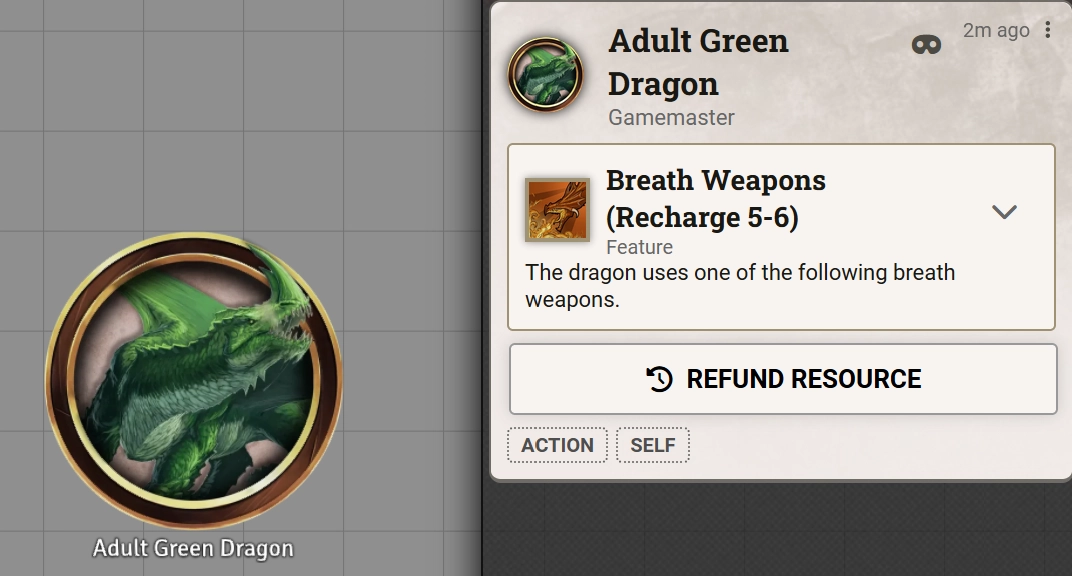
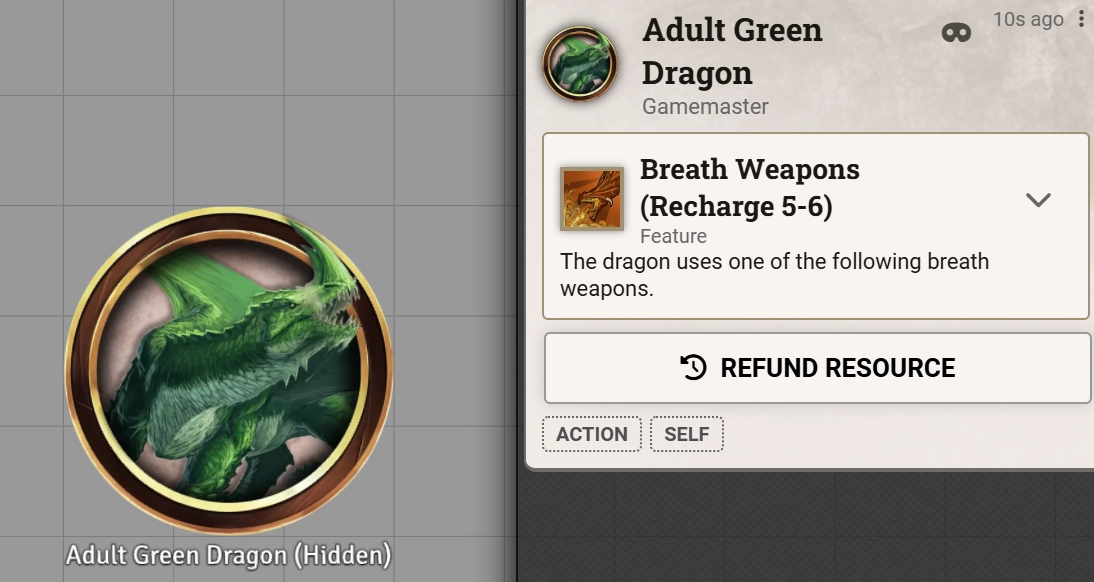
Added "(Hidden)" to the token name when the name is hidden

diff --git a/scripts/hooks-manager.js b/scripts/hooks-manager.js
@@ -26,7 +26,13 @@ export class HooksManager {
             Object.defineProperty(CONFIG.Token.documentClass.prototype, "__name", { value: "", writable: true });
             Object.defineProperty(CONFIG.Token.documentClass.prototype, "name", {
                 get: function () {
-                    return this.actor ? HideNPCNames.getReplacementInfo(this.actor, this.__name).displayName : this.__name;
+                    if(!this.actor) return this.__name;
+                    let replacementInfo = HideNPCNames.getReplacementInfo(this.actor, this.__name);
+                    let retVal = replacementInfo.displayName;
+                    if (replacementInfo.shouldReplace) {
+                        retVal += game.i18n.localize("TokenName.Hidden");
+                    }
+                    return retVal;
                 },
                 set: function (name) {
                     this.__name = name;
